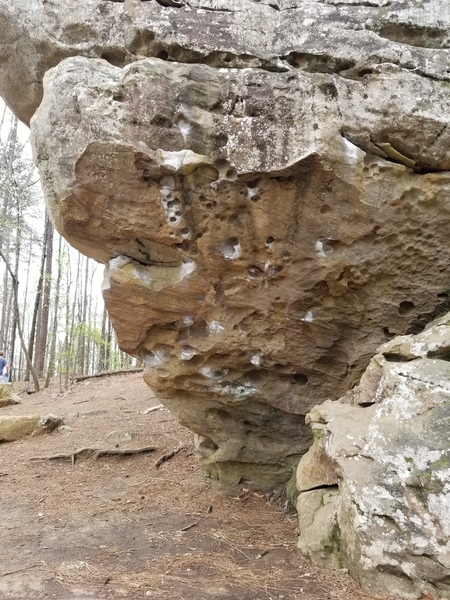
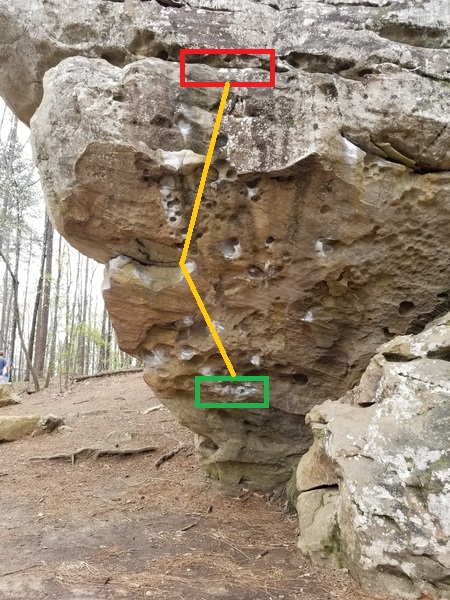
descriptions

Changed region(s): [[0.3733, 0.06, 0.6222, 0.54], [0.4044, 0.54, 0.6222, 0.69]]

diff --git a/index.html b/index.html
@@ -59,8 +59,8 @@
                       <span class="visually-hidden">Next</span>
                     </button>
                   </div>
-                  <div class="modal-body">
-                    Lorem ipsum dolor sit, amet consectetur adipisicing elit. Ut, fuga cum tenetur autem nisi voluptate et veniam tempore dolore inventore similique repellendus deleniti perspiciatis eligendi laborum? Architecto quia sint aliquam!
+                  <div id="modal-body" class="modal-body">
+                    ...
                   </div>
                   <div class="modal-footer">
                     <button onclick="clearModalImages()" type="button" class="btn btn-secondary" data-bs-dismiss="modal">Close</button>

diff --git a/src/problems.js b/src/problems.js
@@ -1,9 +1,14 @@
+const problemDescriptions = [
+    { name: "heart drop", description: 'A classic V1 located at the first boulder upon entering. Overhang with deep pockets \
+                                        and signiture "heart" hold near the middle. Start at bottom holds in green and use pockets \
+                                        to finish at the jug in red. No top-out.'}
+]
 
 const problemImages = [
-    {name: "heart drop", images: [
+    { name: "heart drop", images: [
         "./assets/img/problems/heart-drop/heart-drop-1.jpg",
         "./assets/img/problems/heart-drop/heart-drop-2.jpg"
-    ]}
+    ] }
 ]
 
 const problems = [

diff --git a/src/functions.js b/src/functions.js
@@ -111,6 +111,7 @@ function addCarouselImage (image, count) {
 function setModal () {
     let value = this.value
     let title = document.getElementById("modal-title")
+    let body = document.getElementById("modal-body")
     let count = 0
 
     for (problem in problemImages) {
@@ -121,6 +122,14 @@ function setModal () {
                 addCarouselImage(img, count)
                 count++
             }
+        }
+    }
+
+    for (description in problemDescriptions) {
+        let d = problemDescriptions[description]
+
+        if (value.toLowerCase() === d.name.toLowerCase()) {
+            body.innerHTML = d.description
         }
     }
 
